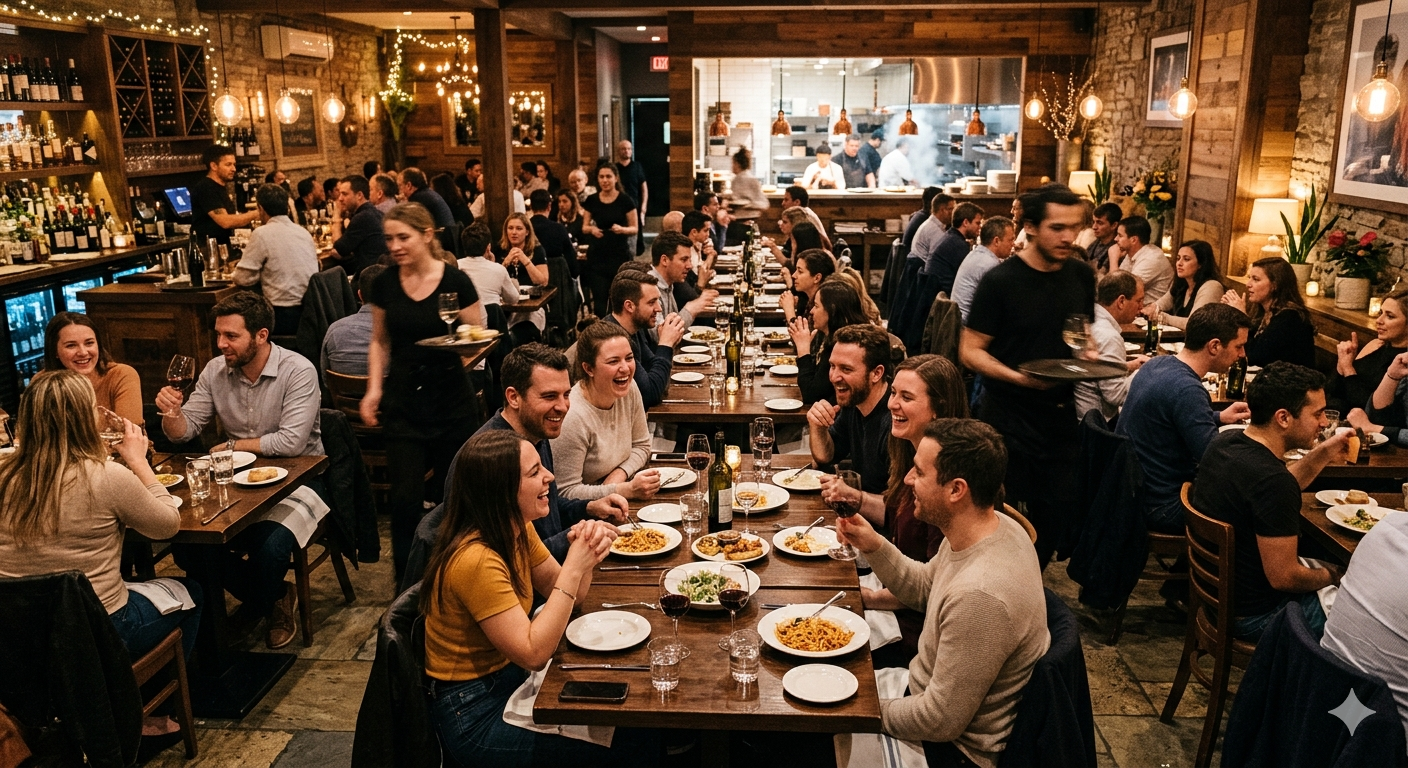
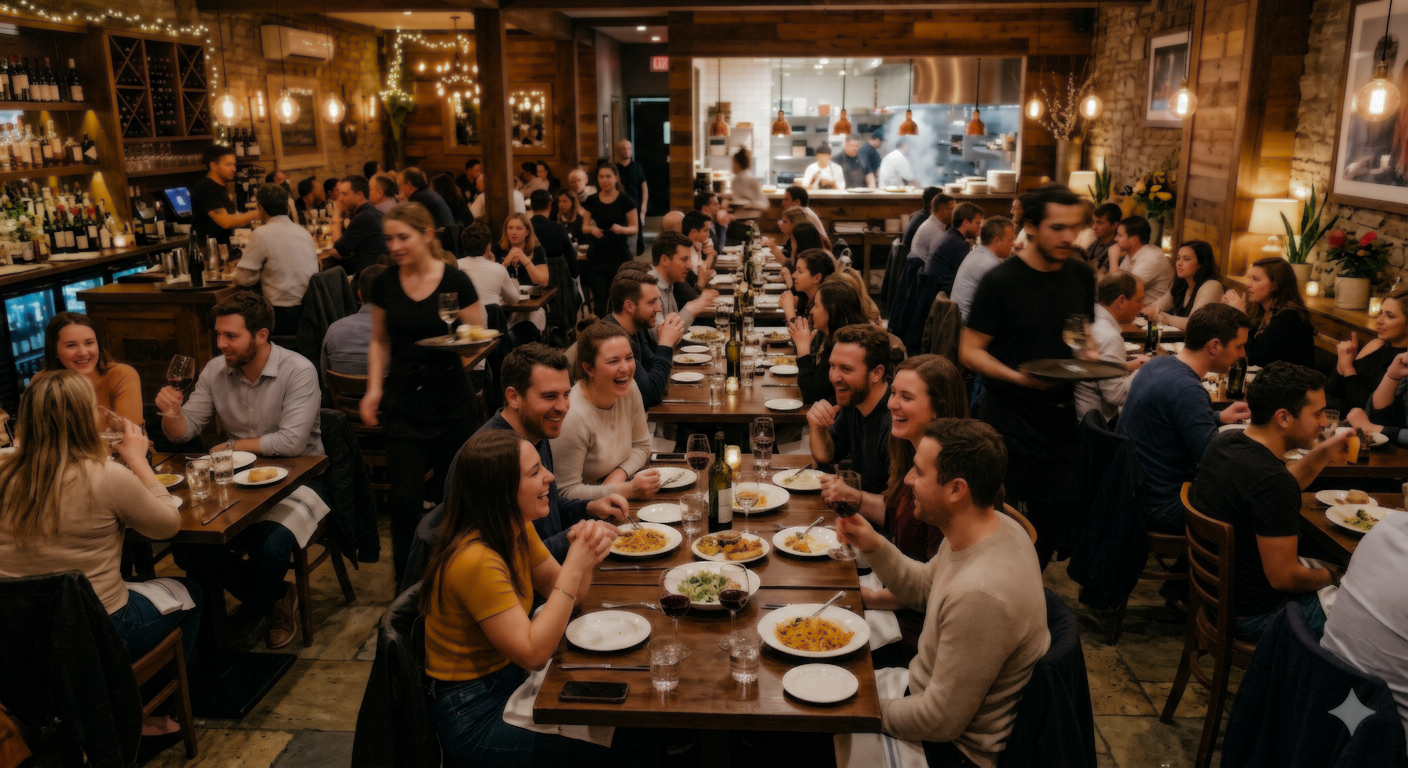
Projeto Delivery

diff --git a/Site Delivery/CasadoChefe.css b/Site Delivery/CasadoChefe.css
@@ -1,43 +1,45 @@
 .header {
   color: #fff;
   min-height: 88vh;
-  /* Garante que o conteúdo de dentro fique posicionado corretamente sobre o fundo */
-  position: relative; 
-  /* Esconde as bordas borradas da imagem que tentarem "vazar" para fora do header */
-  overflow: hidden; 
-}
-
-/* Criamos a camada para a imagem de fundo */
-.header::before {
-  content: "";
-  position: absolute;
-  top: 0;
-  left: 0;
-  width: 100%;
-  height: 100%;
-  background: url(./BackgroundInicio.png) center / cover no-repeat;
-  /* Aplica o desfoque apenas aqui */
-  filter: blur(1px); 
-  /* Coloca a imagem atrás do texto (o texto por padrão fica no nível 0 ou superior) */
-  z-index: 1; 
-  /* Opcional: aumenta um pouco o tamanho para sumir com as bordas brancas do desfoque */
-  transform: scale(1.1); 
-}
-
-/* Precisamos garantir que a navegação fique ACIMA da camada borrada */
-.lista {
   display: flex;
-  flex-direction: row;
-  position: relative;
-  z-index: 2; /* Maior que o z-index da imagem */
+  flex-direction: column;
+  background: url(./BackGroundInicio.png) center / cover no-repeat;
 }
 
-/* Extra: Correção de um pequeno erro de digitação no seu código original */
-.ButReserva {
+.topbar {
+display: flex;
+justify-content: space-around;
+border: 1px solid red;
+}
+
+.logo {
+  border: 1px solid blue;
+  font-family: "BJCree", serif;
+  font-weight: 900;
+  font-style: normal;
+}
+
+.nav-list {
   display: flex;
-  /* O correto é space-between, space-around ou space-evenly. 
-     Se era apenas para centralizar o texto do botão, use center, ou nem precisa de flex aqui */
-  justify-content: center; 
+  gap: 28px;
+  font-family: "BJCree", serif;
+  font-weight: 600;
+  font-style: normal;
+}
+ul {
+  list-style-type: none;
+}
+
+.nav-reserva {
+  text-decoration: none;
+  color: inherit;
+  font-family: "BJCree", serif;
+  font-weight: 600;
+  font-style: normal;
+  background-color: orange;
+  border-radius: 20px;
+  border: 5px solid orange;
+  box-shadow: 20px;
 }
 
 * {

diff --git a/Site Delivery/CasaDoChefe.html b/Site Delivery/CasaDoChefe.html
@@ -1,0 +1,29 @@
+<!DOCTYPE html>
+<html lang="en">
+<head>
+  <meta charset="UTF-8">
+  <meta name="viewport" content="width=device-width, initial-scale=1.0">
+  <link rel="stylesheet" href="./CasadoChefe.css">
+  <link rel="preconnect" href="https://fonts.googleapis.com">
+  <link rel="preconnect" href="https://fonts.gstatic.com" crossorigin>
+  <link href="https://fonts.googleapis.com/css2?family=BJCree:wght@400;500;600;700&family=Courgette&family=Dancing+Script:wght@400..700&family=M+PLUS +U:wght@100..900&family=Oswald:wght@200..700&family=Plus+Jakarta+Sans:ital,wght@0,200..800;1,200..800&family=Saira:ital,wght@0,100..900;1,100..900&  family=Source+Code+Pro:ital,wght@0,200..900;1,200..900&display=swap" rel="stylesheet">
+  <link rel="preconnect" href="https://fonts.googleapis.com">
+  <link rel="preconnect" href="https://fonts.gstatic.com" crossorigin>
+  <link href="https://fonts.googleapis.com/css2?family=BJCree:wght@400;500;600;700&family=Courgette&family=Dancing+Script:wght@400..700&family=M+PLUS +U:wght@100..900&family=Nunito:ital,wght@0,200..1000;1,200..1000&family=Oswald:wght@200..700&family=Plus+Jakarta+Sans:ital,wght@0,200..800;1,200..800& family=Saira:ital,wght@0,100..900;1,100..900&family=Source+Code+Pro:ital,wght@0,200..900;1,200..900&display=swap" rel="stylesheet">
+  <title>Casa do Chef</title>
+</head>
+
+<body>
+  <header class="header">
+    <nav class="topbar">
+      <p class="logo">Casa Do Chefe</p>
+      <ul class="nav-list">
+        <li>Cardápio</li>
+        <li>Contato</li>
+        <li>Sobre</li>
+      </ul>
+      <a class="nav-reserva" href="">Reservar Mesa</a>
+    </nav>
+  </header>
+</body>
+</html>

diff --git a/PrimeLar.css b/PrimeLar.css
@@ -754,7 +754,7 @@ section > a {
     width: 100%; 
     max-width: 340px; 
 
-  }
+  
   .padrao {
     width: 90%;
     padding: 15px;
